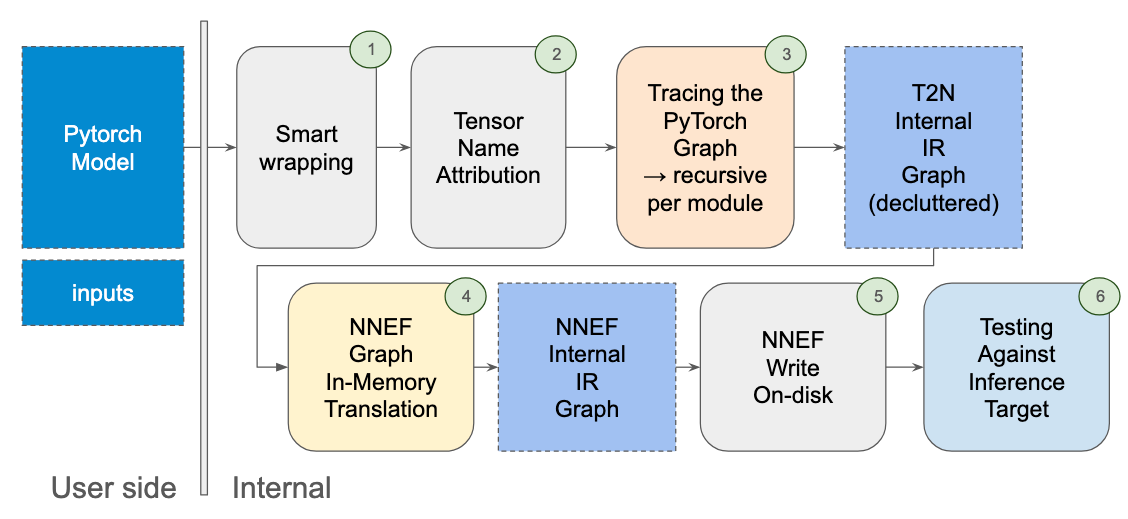
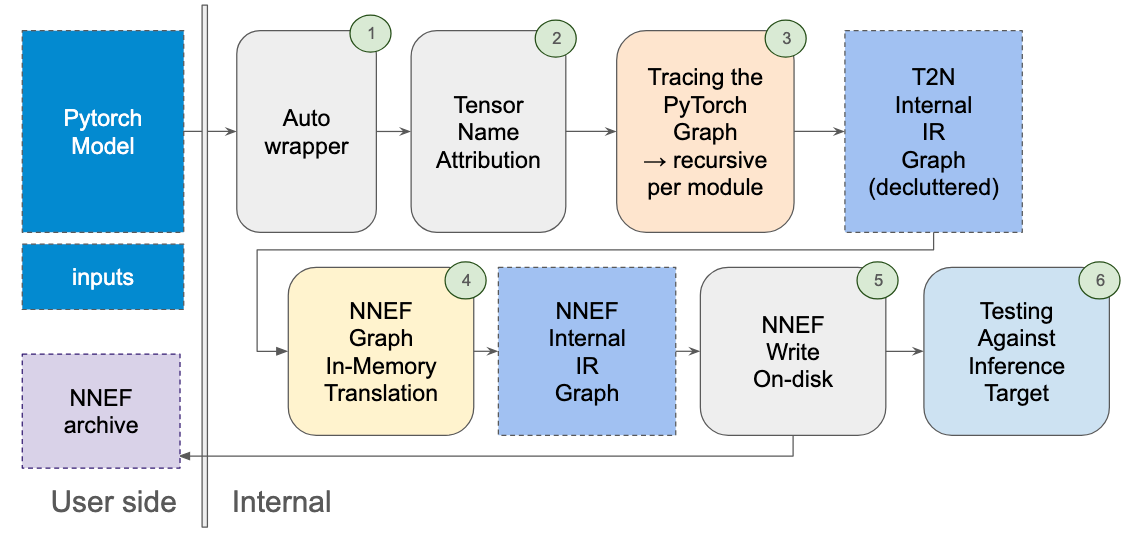
feat: better contrib

diff --git a/CONTRIBUTING.md b/CONTRIBUTING.md
@@ -1,7 +1,8 @@
 # :hugging_face: Contributing
 
-Contributions are welcome, and they are greatly appreciated! Every little bit
-helps, and credit will always be given.
+!!! tip ""
+    Contributions are welcome, and they are greatly appreciated! Every little bit
+    helps, and credit will always be given.
 
 You can contribute in many ways:
 
@@ -102,7 +103,6 @@ We use the following code tools for formatting and first checks:
 * [prospector](https://pypi.org/project/prospector/) deeper more complete analysis
 
 In term of naming convention we try to follow [google style](https://google.github.io/styleguide/pyguide.html), the most we can.
-
 
 I
 

diff --git a/docs/contributing/internal_design.md b/docs/contributing/internal_design.md
@@ -25,7 +25,7 @@ Each of those steps have specific aims and goals.
     These steps only apply to `torch_to_nnef.export_model_to_nnef` export function that export the graph + the tensors.
     To observe those in practice setting log level to info and not filtering this lib logs is helpful a proposed default logger is available in `torch_to_nnef.log.init_log`
 
-## 1. Smart wrapper
+## 1. Auto wrapper
 
 ## 2. Tensor naming
 
